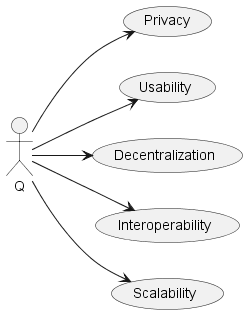
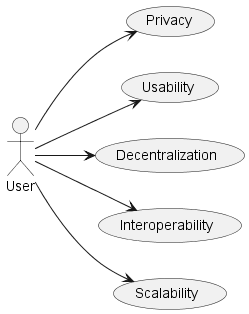
Updates

diff --git a/index.html b/index.html
@@ -552,29 +552,29 @@ For documentation of your own system you use better the <em>plain</em> version.<
 <h2 id="section-introduction-and-goals">1. Introduction and Goals</h2>
 <div class="sectionbody">
 <div class="paragraph">
-<p>Documentación del sistema LoMap, aplicación en el que los ciudadanos pueden disponer de mapas personalizados sobre lugares y negocios locales de la ciudad.</p>
+<p>Documentation of the LoMap system, an application in which citizens can have personalized maps of places and local businesses in the city.</p>
 </div>
 <div class="sect2">
 <h3 id="_requirements_overview">1.1. Requirements Overview</h3>
 <div class="ulist">
 <ul>
 <li>
-<p>Añadir lugares en categorías diferentes.</p>
+<p>Add places in different categories.</p>
 </li>
 <li>
-<p>Los usuarios serán capaces de mostrar lugares en una ventana tipo mapa.</p>
+<p>Users will be able to display locations in a map-like window.</p>
 </li>
 <li>
-<p>Los usuarios pueden asociar puntuaciones, comentarios, fotos sobre los lugares añadidos.</p>
+<p>Users can associate ratings, comments, photos on the added places.</p>
 </li>
 <li>
-<p>La información sobre un lugar almacenada por cada usuario se almacenará en el pod de cada usuario.</p>
+<p>Information about a place stored by each user will be stored in each user&#8217;s pod.</p>
 </li>
 <li>
-<p>Los usuarios podrán ver lugares e información tomada de sus amigos.</p>
+<p>Users will be able to see places and information taken from their friends.</p>
 </li>
 <li>
-<p>Se permite realizar filtros a las búsquedas en el mapa.</p>
+<p>Filters are allowed for searches on the map.</p>
 </li>
 </ul>
 </div>
@@ -588,30 +588,30 @@ For documentation of your own system you use better the <em>plain</em> version.<
 </colgroup>
 <thead>
 <tr>
-<th class="tableblock halign-left valign-top">Objetivo</th>
-<th class="tableblock halign-left valign-top">Descripción</th>
+<th class="tableblock halign-left valign-top">Goal</th>
+<th class="tableblock halign-left valign-top">Description</th>
 </tr>
 </thead>
 <tbody>
 <tr>
-<td class="tableblock halign-left valign-top"><p class="tableblock"><em>Privacidad</em></p></td>
-<td class="tableblock halign-left valign-top"><p class="tableblock"><em>Cada usuario debe tener la capacidad de controlar su información y saber quien tiene acceso a ella.</em></p></td>
+<td class="tableblock halign-left valign-top"><p class="tableblock"><em>Privacy</em></p></td>
+<td class="tableblock halign-left valign-top"><p class="tableblock"><em>Each user should have the ability to control their information and know who has access to it.</em></p></td>
 </tr>
 <tr>
-<td class="tableblock halign-left valign-top"><p class="tableblock"><em>Usabilidad</em></p></td>
-<td class="tableblock halign-left valign-top"><p class="tableblock"><em>El sistema debe poder utilizarse de manera rápida y sencilla por cualquier usuario.</em></p></td>
+<td class="tableblock halign-left valign-top"><p class="tableblock"><em>Usability</em></p></td>
+<td class="tableblock halign-left valign-top"><p class="tableblock"><em>The system should be able to be used quickly and easily by any user.</em></p></td>
 </tr>
 <tr>
-<td class="tableblock halign-left valign-top"><p class="tableblock"><em>Descentralización</em></p></td>
-<td class="tableblock halign-left valign-top"><p class="tableblock"><em>Para evitar problemas de seguridad teniendo todos los datos en una base central, los mapas personalizados estarán bajo control de los usuarios y la información compartida será almacenadas en el pod personal de cada uno.</em></p></td>
+<td class="tableblock halign-left valign-top"><p class="tableblock"><em>Decentralization</em></p></td>
+<td class="tableblock halign-left valign-top"><p class="tableblock"><em>To avoid security problems by having all the data in a central base, the personalized maps will be under the control of the users and the shared information will be stored in the personal pod of each one.</em></p></td>
 </tr>
 <tr>
-<td class="tableblock halign-left valign-top"><p class="tableblock"><em>Escalabilidad</em></p></td>
-<td class="tableblock halign-left valign-top"><p class="tableblock"><em>LoMap debe ser capaz de crecer y aumentar sus funcionalidades de forma sencilla.</em></p></td>
+<td class="tableblock halign-left valign-top"><p class="tableblock"><em>Scalability</em></p></td>
+<td class="tableblock halign-left valign-top"><p class="tableblock"><em>LoMap must be able to grow and increase its functionalities in a simple way.</em></p></td>
 </tr>
 <tr>
-<td class="tableblock halign-left valign-top"><p class="tableblock"><em>Interoperabilidad</em></p></td>
-<td class="tableblock halign-left valign-top"><p class="tableblock"><em>La aplicación debe de ser capaz de intercambiar su información con otras y utilizar la información intercambiada.</em></p></td>
+<td class="tableblock halign-left valign-top"><p class="tableblock"><em>Interoperability</em></p></td>
+<td class="tableblock halign-left valign-top"><p class="tableblock"><em>The application must be able to exchange its information with others and use the information exchanged.</em></p></td>
 </tr>
 </tbody>
 </table>
@@ -633,28 +633,28 @@ For documentation of your own system you use better the <em>plain</em> version.<
 </thead>
 <tbody>
 <tr>
-<td class="tableblock halign-left valign-top"><p class="tableblock"><em>Estudiantes</em></p></td>
+<td class="tableblock halign-left valign-top"><p class="tableblock"><em>Students</em></p></td>
 <td class="tableblock halign-left valign-top"><p class="tableblock"><em>Álvaro Davila Sampedro,
 Adrián Martínez Rodríguez,
 Hugo Roberto Pulido Pensado,
 Javier González Velázquez</em></p></td>
-<td class="tableblock halign-left valign-top"><p class="tableblock"><em>Desarrolladores principales de la aplicación, con el fin de mejorar el trabajo en equipo y conocer el funcionamiento de los principios SOLID.</em></p></td>
+<td class="tableblock halign-left valign-top"><p class="tableblock"><em>Main developers of the application, in order to improve teamwork and learn how SOLID principles work.</em></p></td>
 </tr>
 <tr>
-<td class="tableblock halign-left valign-top"><p class="tableblock"><em>Profesores</em></p></td>
-<td class="tableblock halign-left valign-top"><p class="tableblock"><em>Profesores</em></p></td>
-<td class="tableblock halign-left valign-top"><p class="tableblock"><em>Encargados de supervisar el trabajo de los estudiantes.</em></p></td>
+<td class="tableblock halign-left valign-top"><p class="tableblock"><em>Teachers</em></p></td>
+<td class="tableblock halign-left valign-top"><p class="tableblock"><em>Teachers</em></p></td>
+<td class="tableblock halign-left valign-top"><p class="tableblock"><em>In charge of supervising the work of the students.</em></p></td>
 </tr>
 <tr>
-<td class="tableblock halign-left valign-top"><p class="tableblock"><em>Usuarios</em></p></td>
-<td class="tableblock halign-left valign-top"><p class="tableblock"><em>Todas las personas que vayan a utilizar la aplicación</em></p></td>
-<td class="tableblock halign-left valign-top"><p class="tableblock"><em>Al ser los encargados de utilizar la aplicación, buscan una aplicación
-funcional, rápida y fácil de entender.</em></p></td>
+<td class="tableblock halign-left valign-top"><p class="tableblock"><em>Users</em></p></td>
+<td class="tableblock halign-left valign-top"><p class="tableblock"><em>All people who are going to use the application</em></p></td>
+<td class="tableblock halign-left valign-top"><p class="tableblock"><em>At the time of
+use the app, users search for an app functional, fast and easy to understand.</em></p></td>
 </tr>
 <tr>
-<td class="tableblock halign-left valign-top"><p class="tableblock"><em>Contratador</em></p></td>
-<td class="tableblock halign-left valign-top"><p class="tableblock"><em>Ayuntamiento de Bruselas</em></p></td>
-<td class="tableblock halign-left valign-top"><p class="tableblock"><em>Una aplicación funcional que cumpla los requisitos solicitados en el contrato.</em></p></td>
+<td class="tableblock halign-left valign-top"><p class="tableblock"><em>Recruiter</em></p></td>
+<td class="tableblock halign-left valign-top"><p class="tableblock"><em>Council of Brussels</em></p></td>
+<td class="tableblock halign-left valign-top"><p class="tableblock"><em>A functional application that meets the requirements requested in the contract.</em></p></td>
 </tr>
 </tbody>
 </table>
@@ -1416,7 +1416,7 @@ when your infrastructure is more complex.</p>
 <h3 id="_quality_tree">10.1. Quality Tree</h3>
 <div class="imageblock">
 <div class="content">
-<img src="./images/Quality%20tree.png" alt="Quality tree" width="247" height="314">
+<img src="./images/Quality%20tree.png" alt="Quality tree" width="249" height="314">
 </div>
 </div>
 </div>
